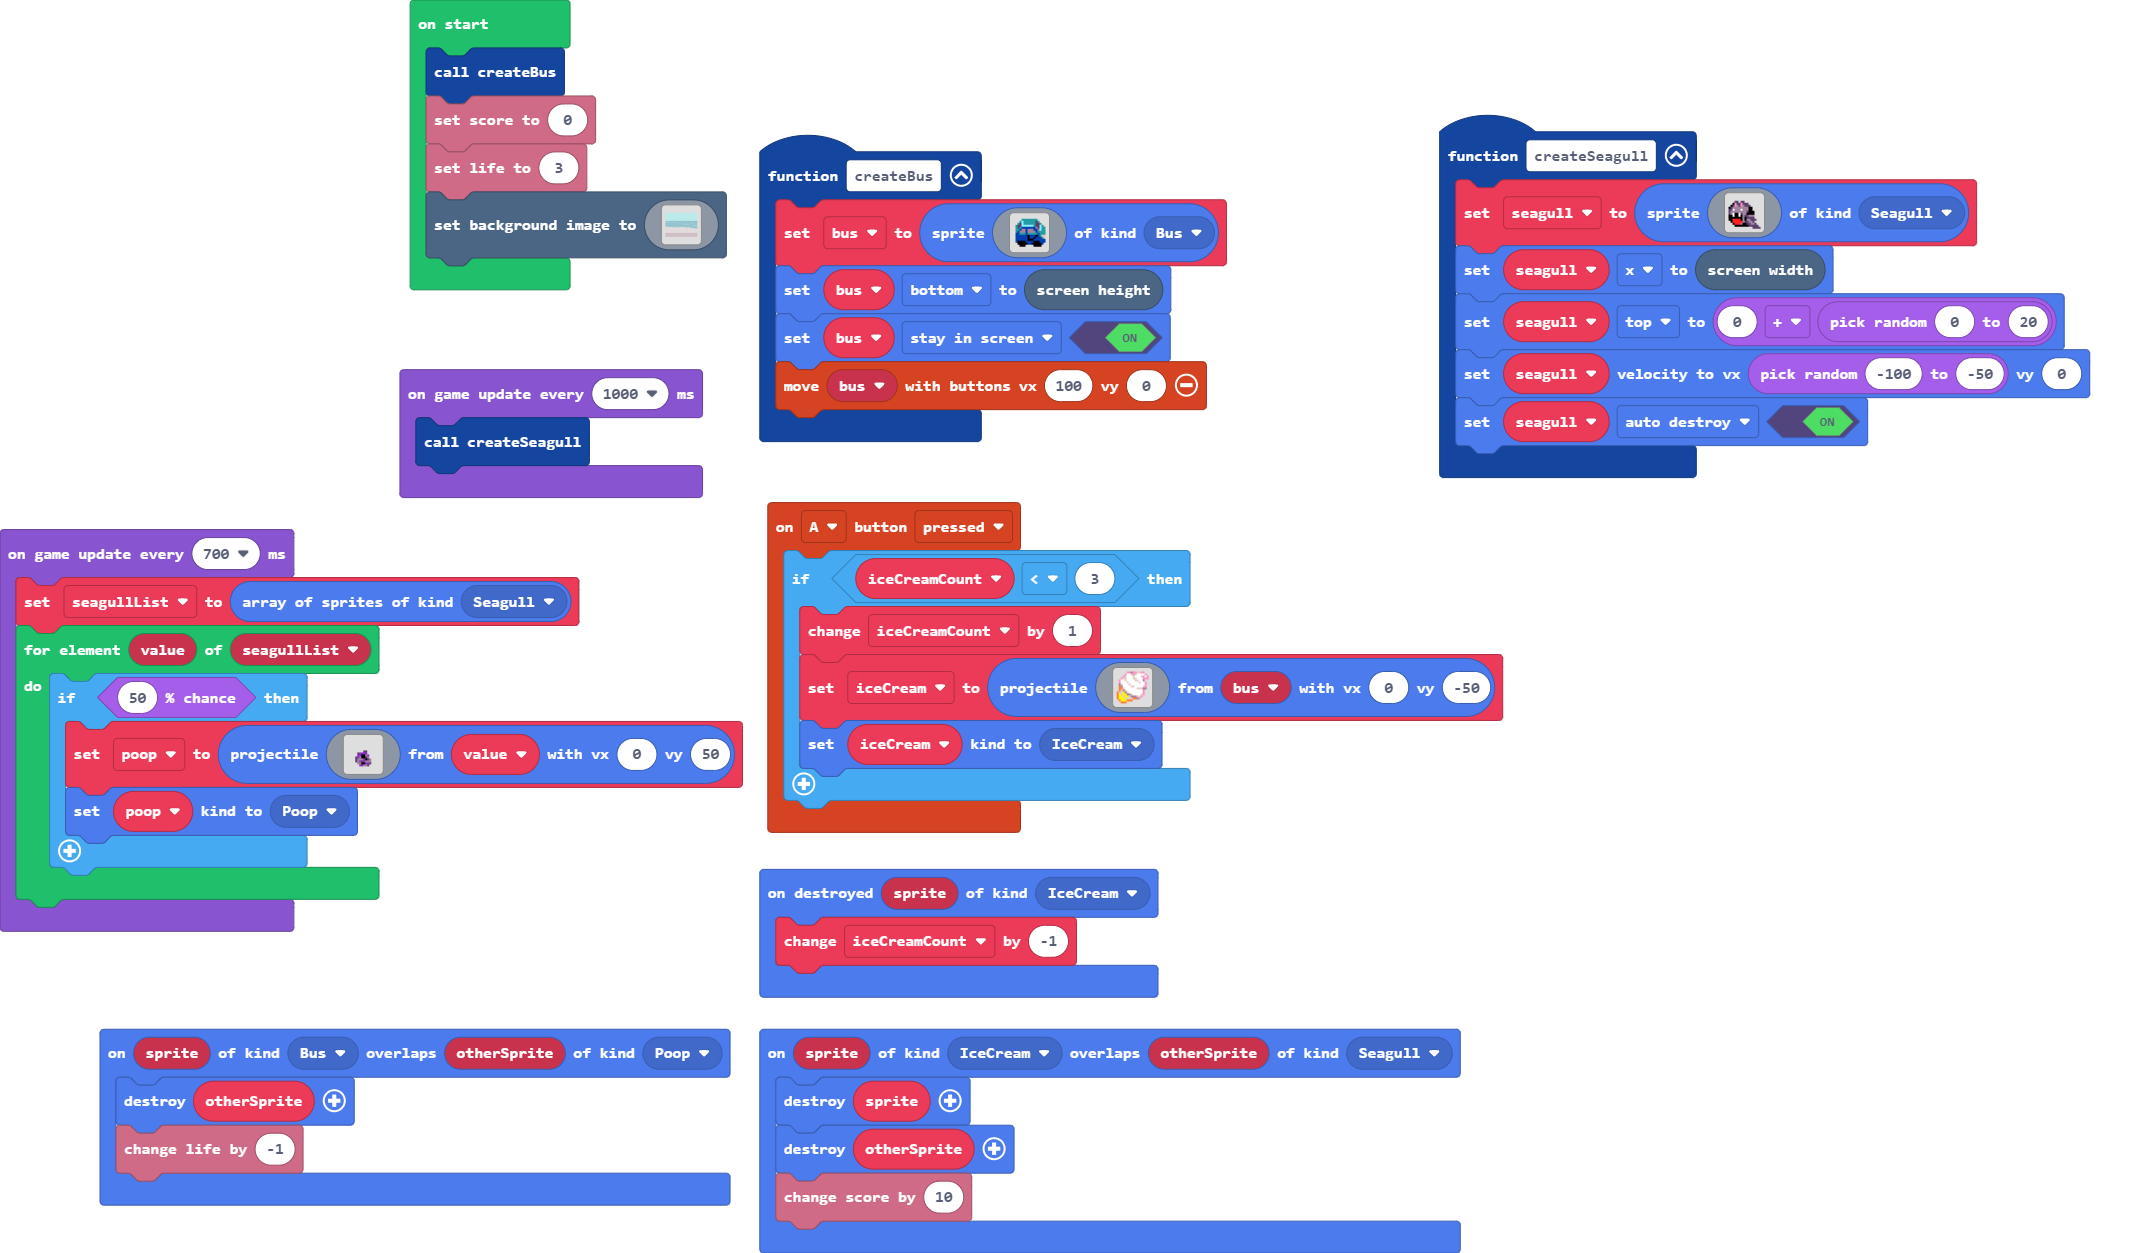
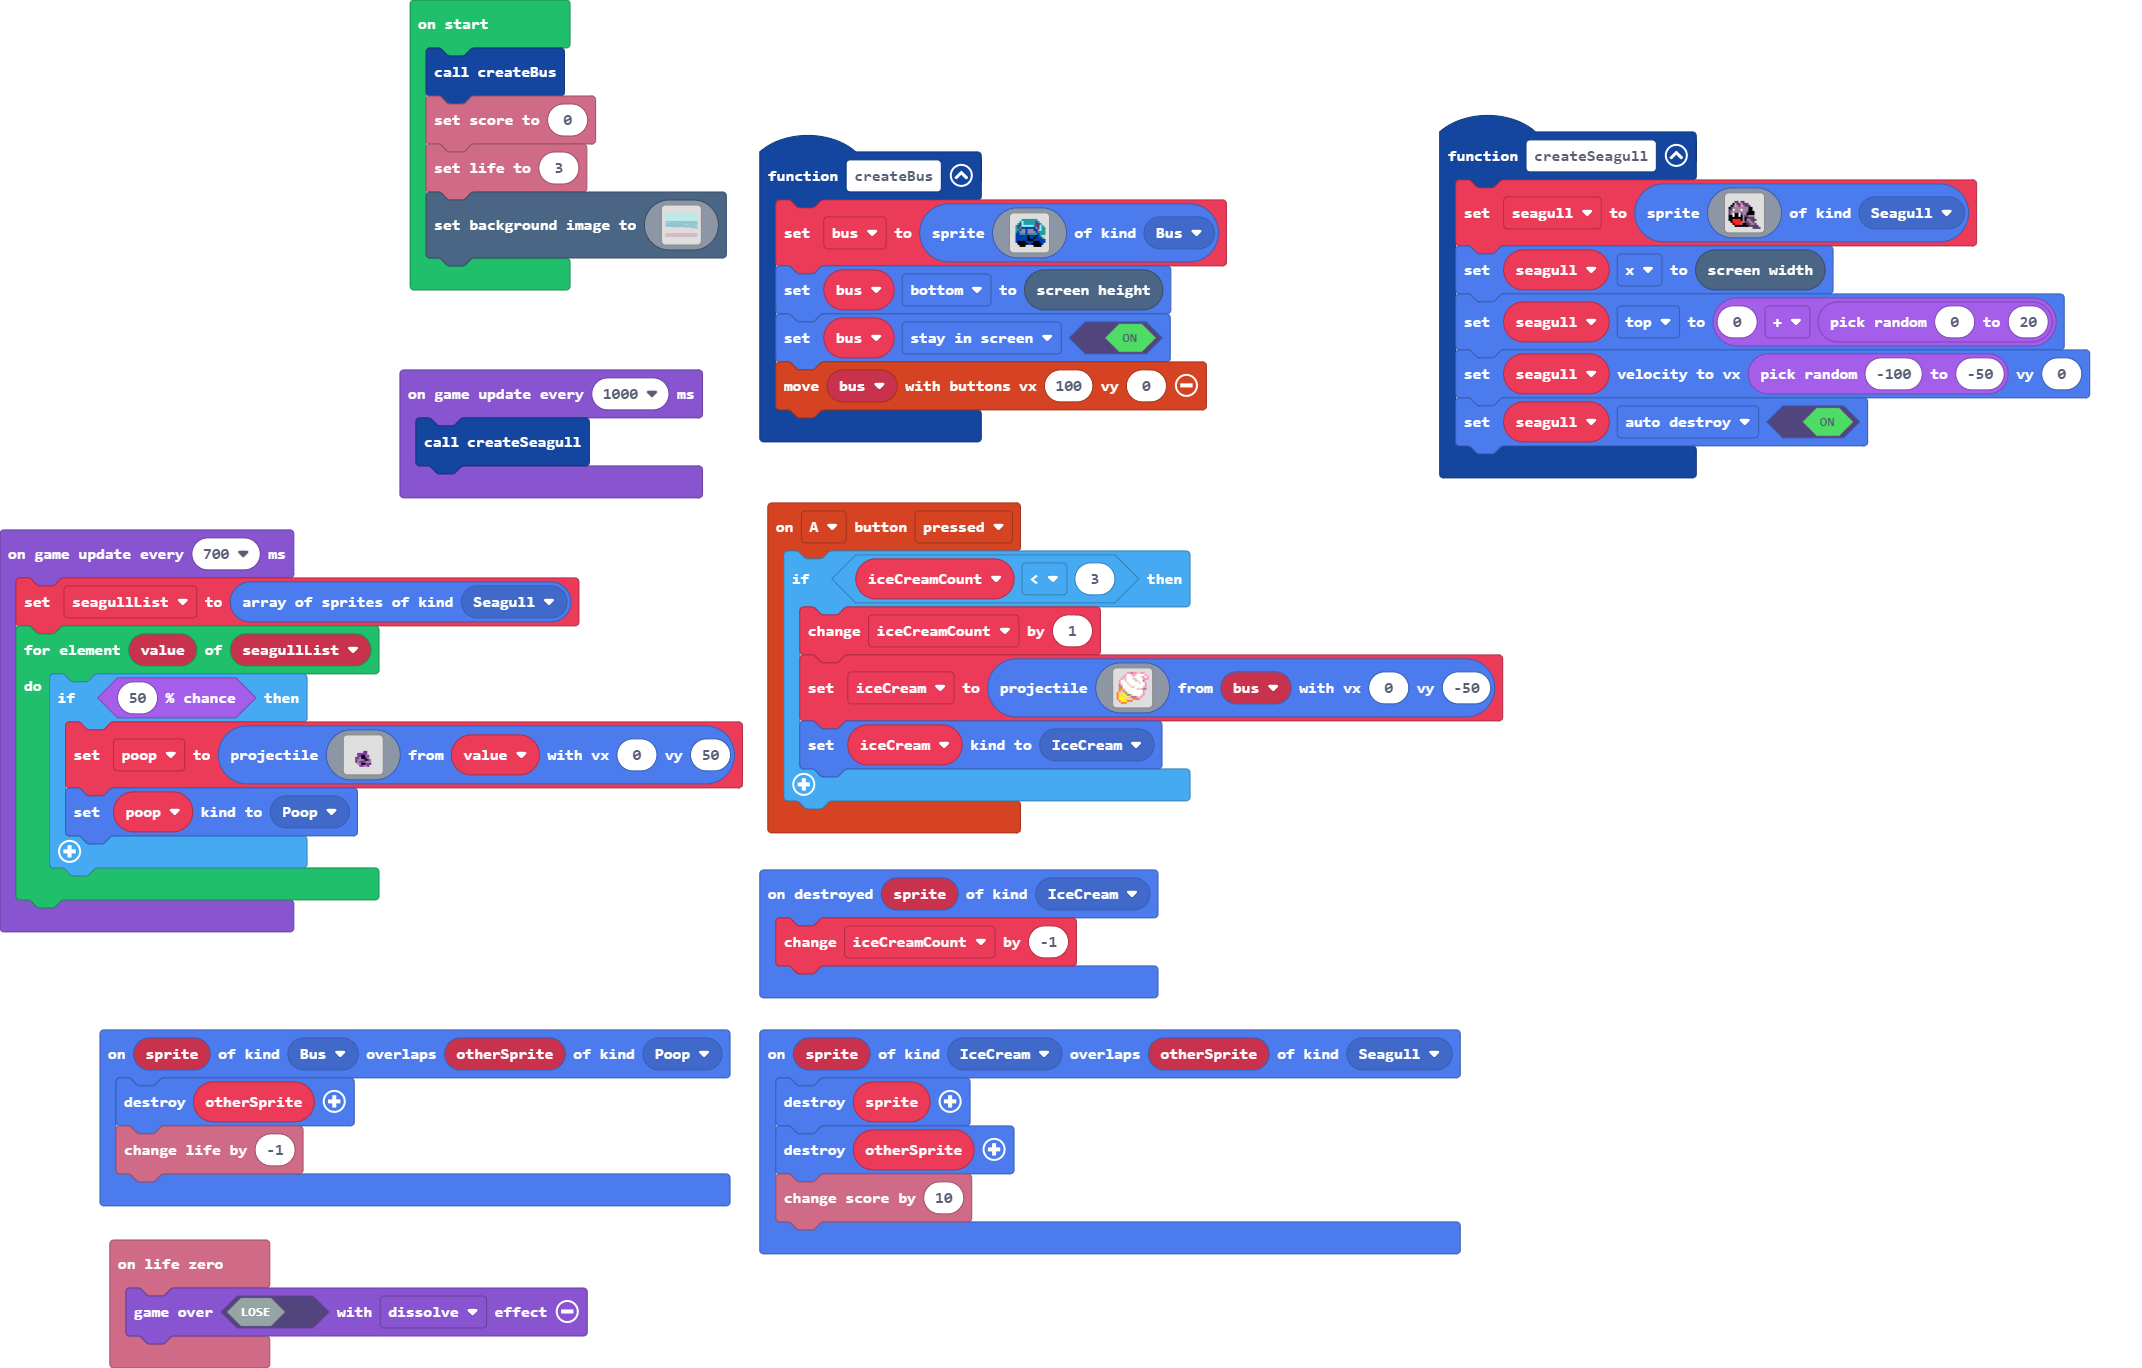
Change game over effect to dissolve.

diff --git a/main.ts b/main.ts
@@ -83,6 +83,9 @@ function createBus () {
     bus.setFlag(SpriteFlag.StayInScreen, true)
     controller.moveSprite(bus, 100, 0)
 }
+info.onLifeZero(function () {
+    game.over(false, effects.dissolve)
+})
 sprites.onOverlap(SpriteKind.Bus, SpriteKind.Poop, function (sprite, otherSprite) {
     otherSprite.destroy()
     info.changeLifeBy(-1)
